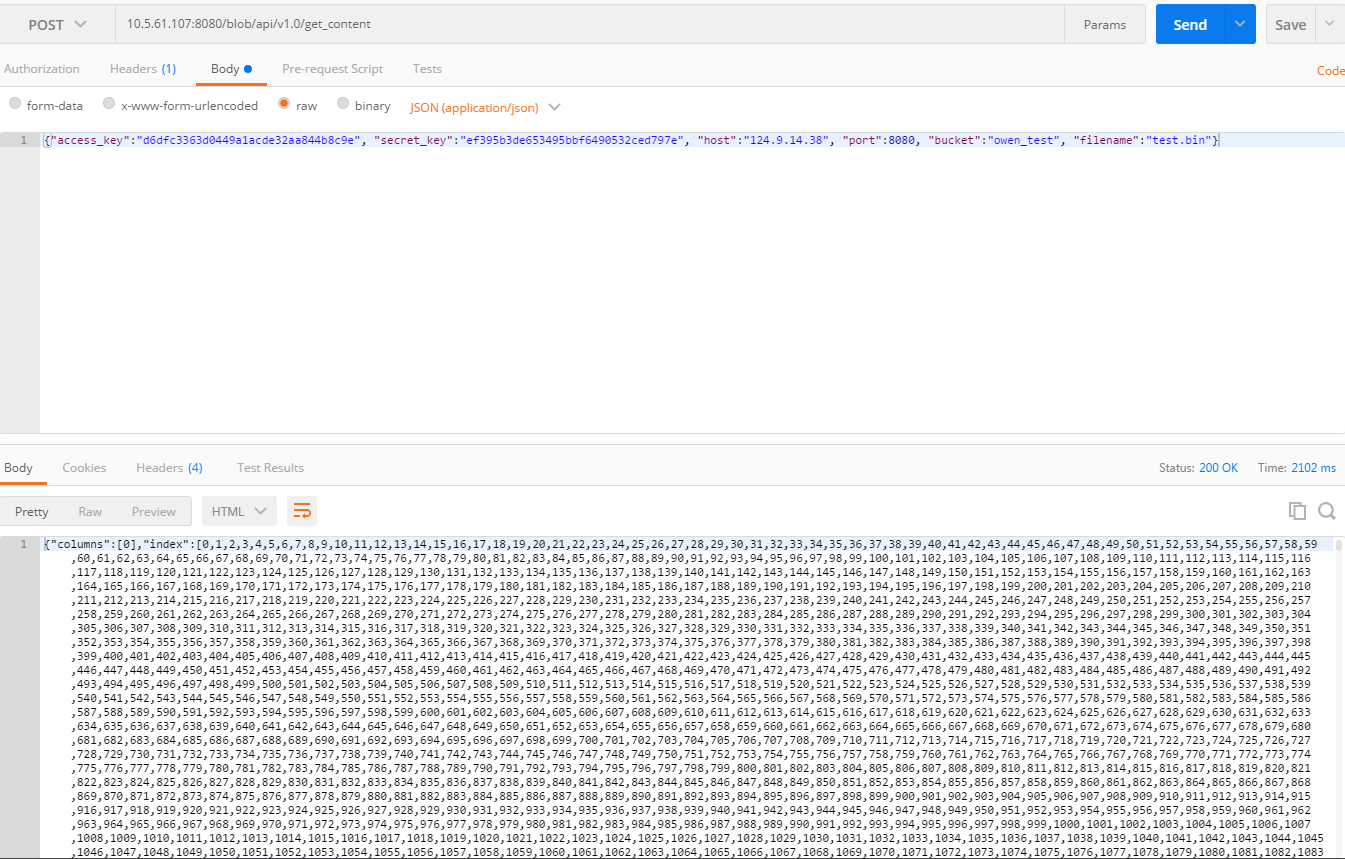
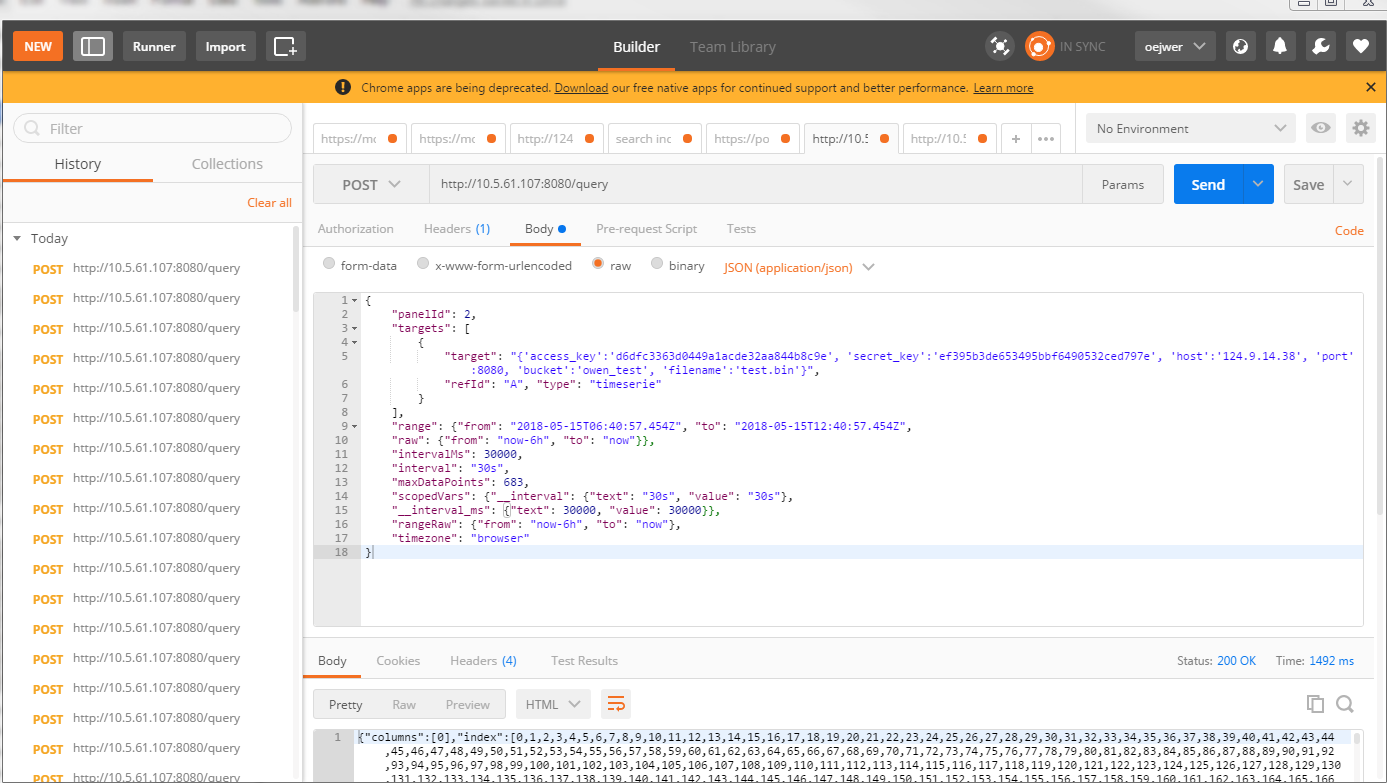
update README

diff --git a/README.md b/README.md
@@ -2,7 +2,11 @@
 
 ### Request
 
-`POST /blob/api/v1.0/get_content/`
+`POST|GET /`
+
+For Grafana test connection
+
+`POST /query`
 
 Post Body
 
@@ -15,7 +19,25 @@ Post Body
 |bucket    |bucket name which stored queue content                                       |
 |filename  |file to be queue                                                             |
 
-`example: {"access_key":"d6dfc339a1acde32aa844b8c9e", "secret_key":"ef395b3de6bf6490532ced797e", "host":"124.9.xxx.38", "port":xxx, "bucket":"owen_test", "filename":"iris.csv"}`
+Example
+`{
+	"panelId": 2, 
+	"targets": [
+		{
+			"target": "{'access_key':'d6dfc3363d0449a1acde32aa844b8c9e', 'secret_key':'ef395b3de653495bbf6490532ced797e', 'host':'124.9.14.38', 'port':8080, 'bucket':'owen_test', 'filename':'test.bin'}", 
+			"refId": "A", "type": "timeserie"
+		}
+	], 
+	"range": {"from": "2018-05-15T06:40:57.454Z", "to": "2018-05-15T12:40:57.454Z", 
+	"raw": {"from": "now-6h", "to": "now"}}, 
+	"intervalMs": 30000, 
+	"interval": "30s", 
+	"maxDataPoints": 683, 
+	"scopedVars": {"__interval": {"text": "30s", "value": "30s"}, 
+	"__interval_ms": {"text": 30000, "value": 30000}}, 
+	"rangeRaw": {"from": "now-6h", "to": "now"}, 
+	"timezone": "browser"
+}`
 
 ### TODO
 1. Execption catch, such as (1) file does not exist in bucket, (2) bucket does not exist, (3) file is empty or cannot read by Pandas
